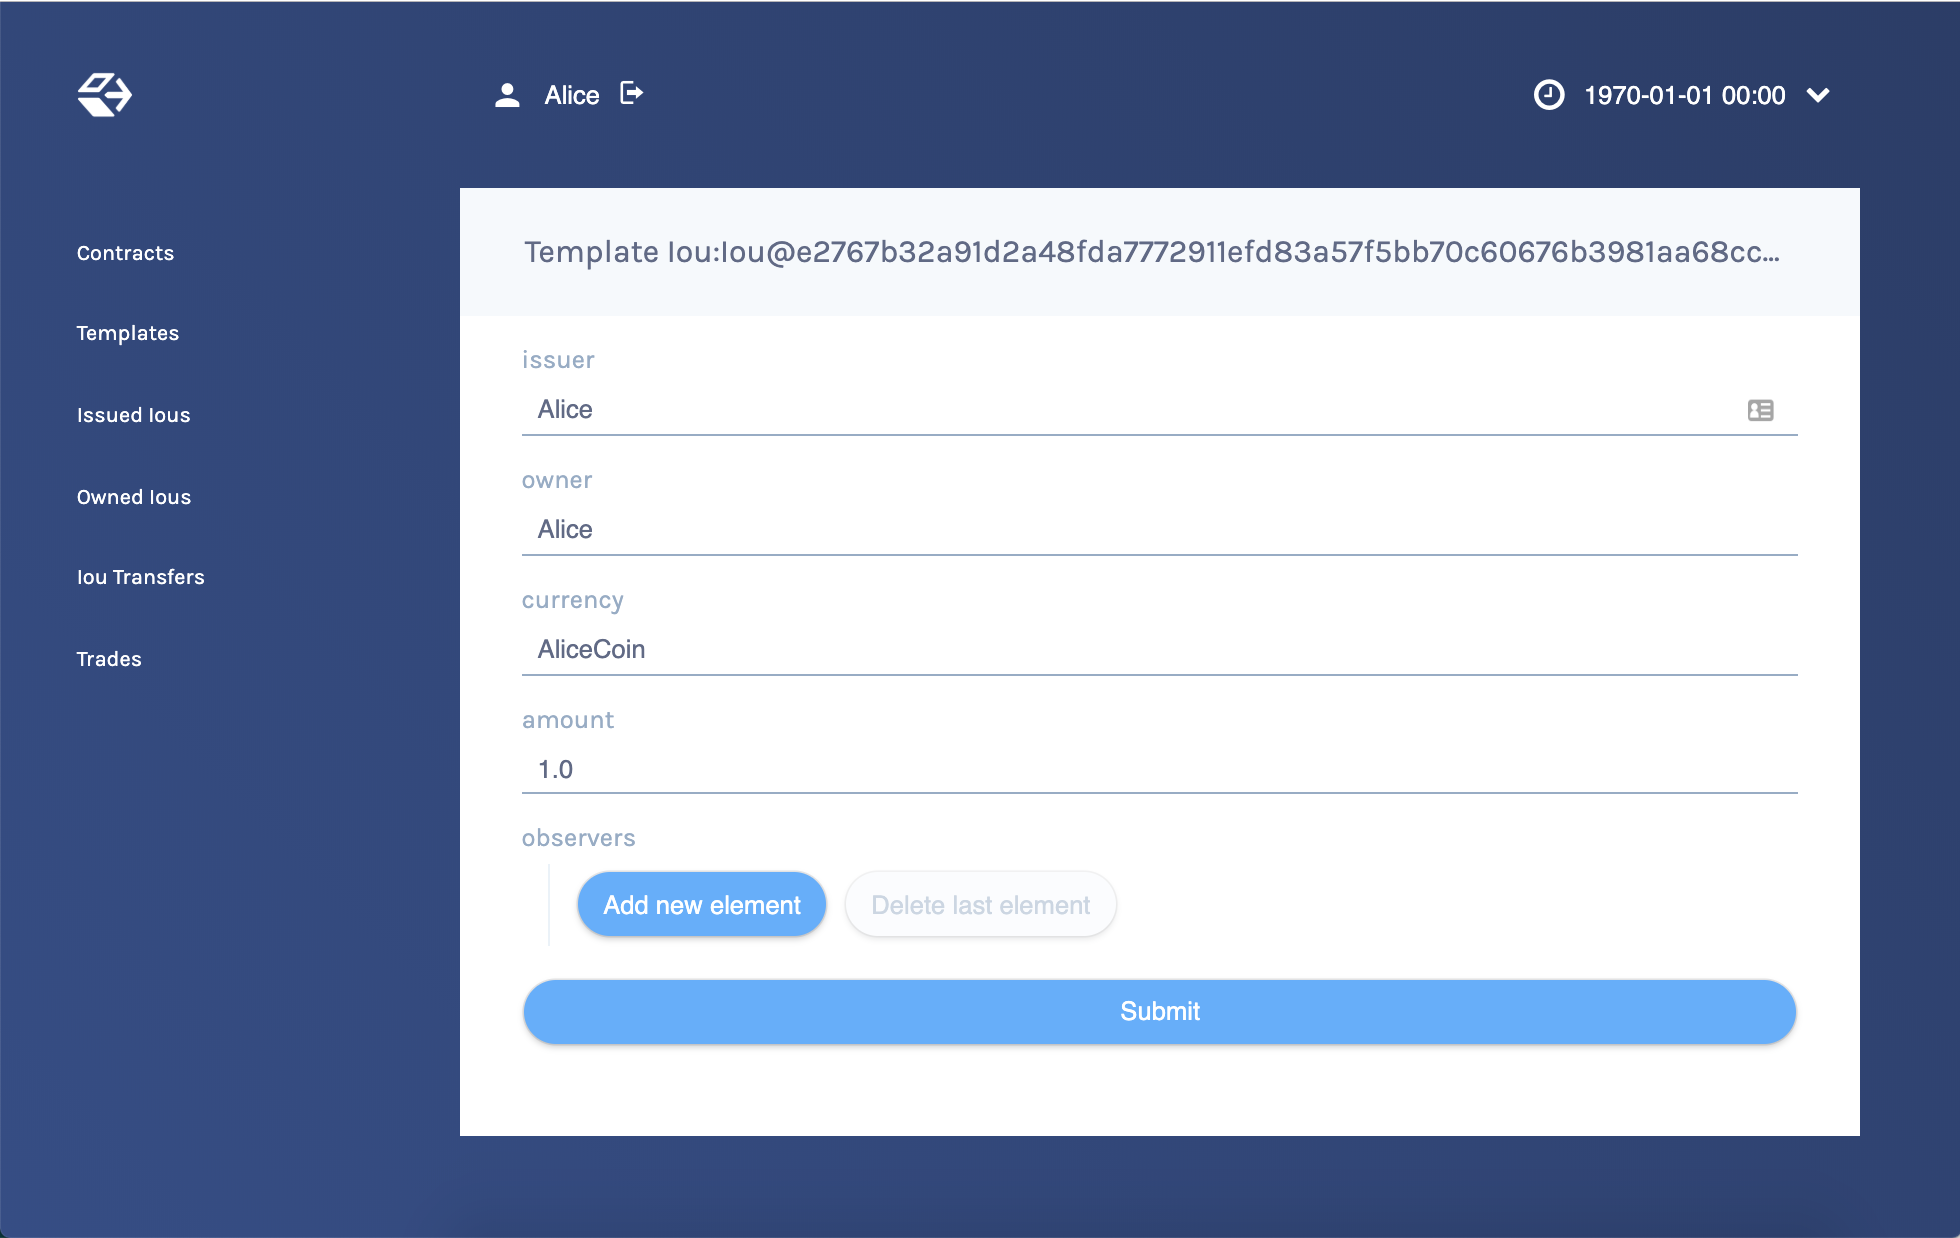
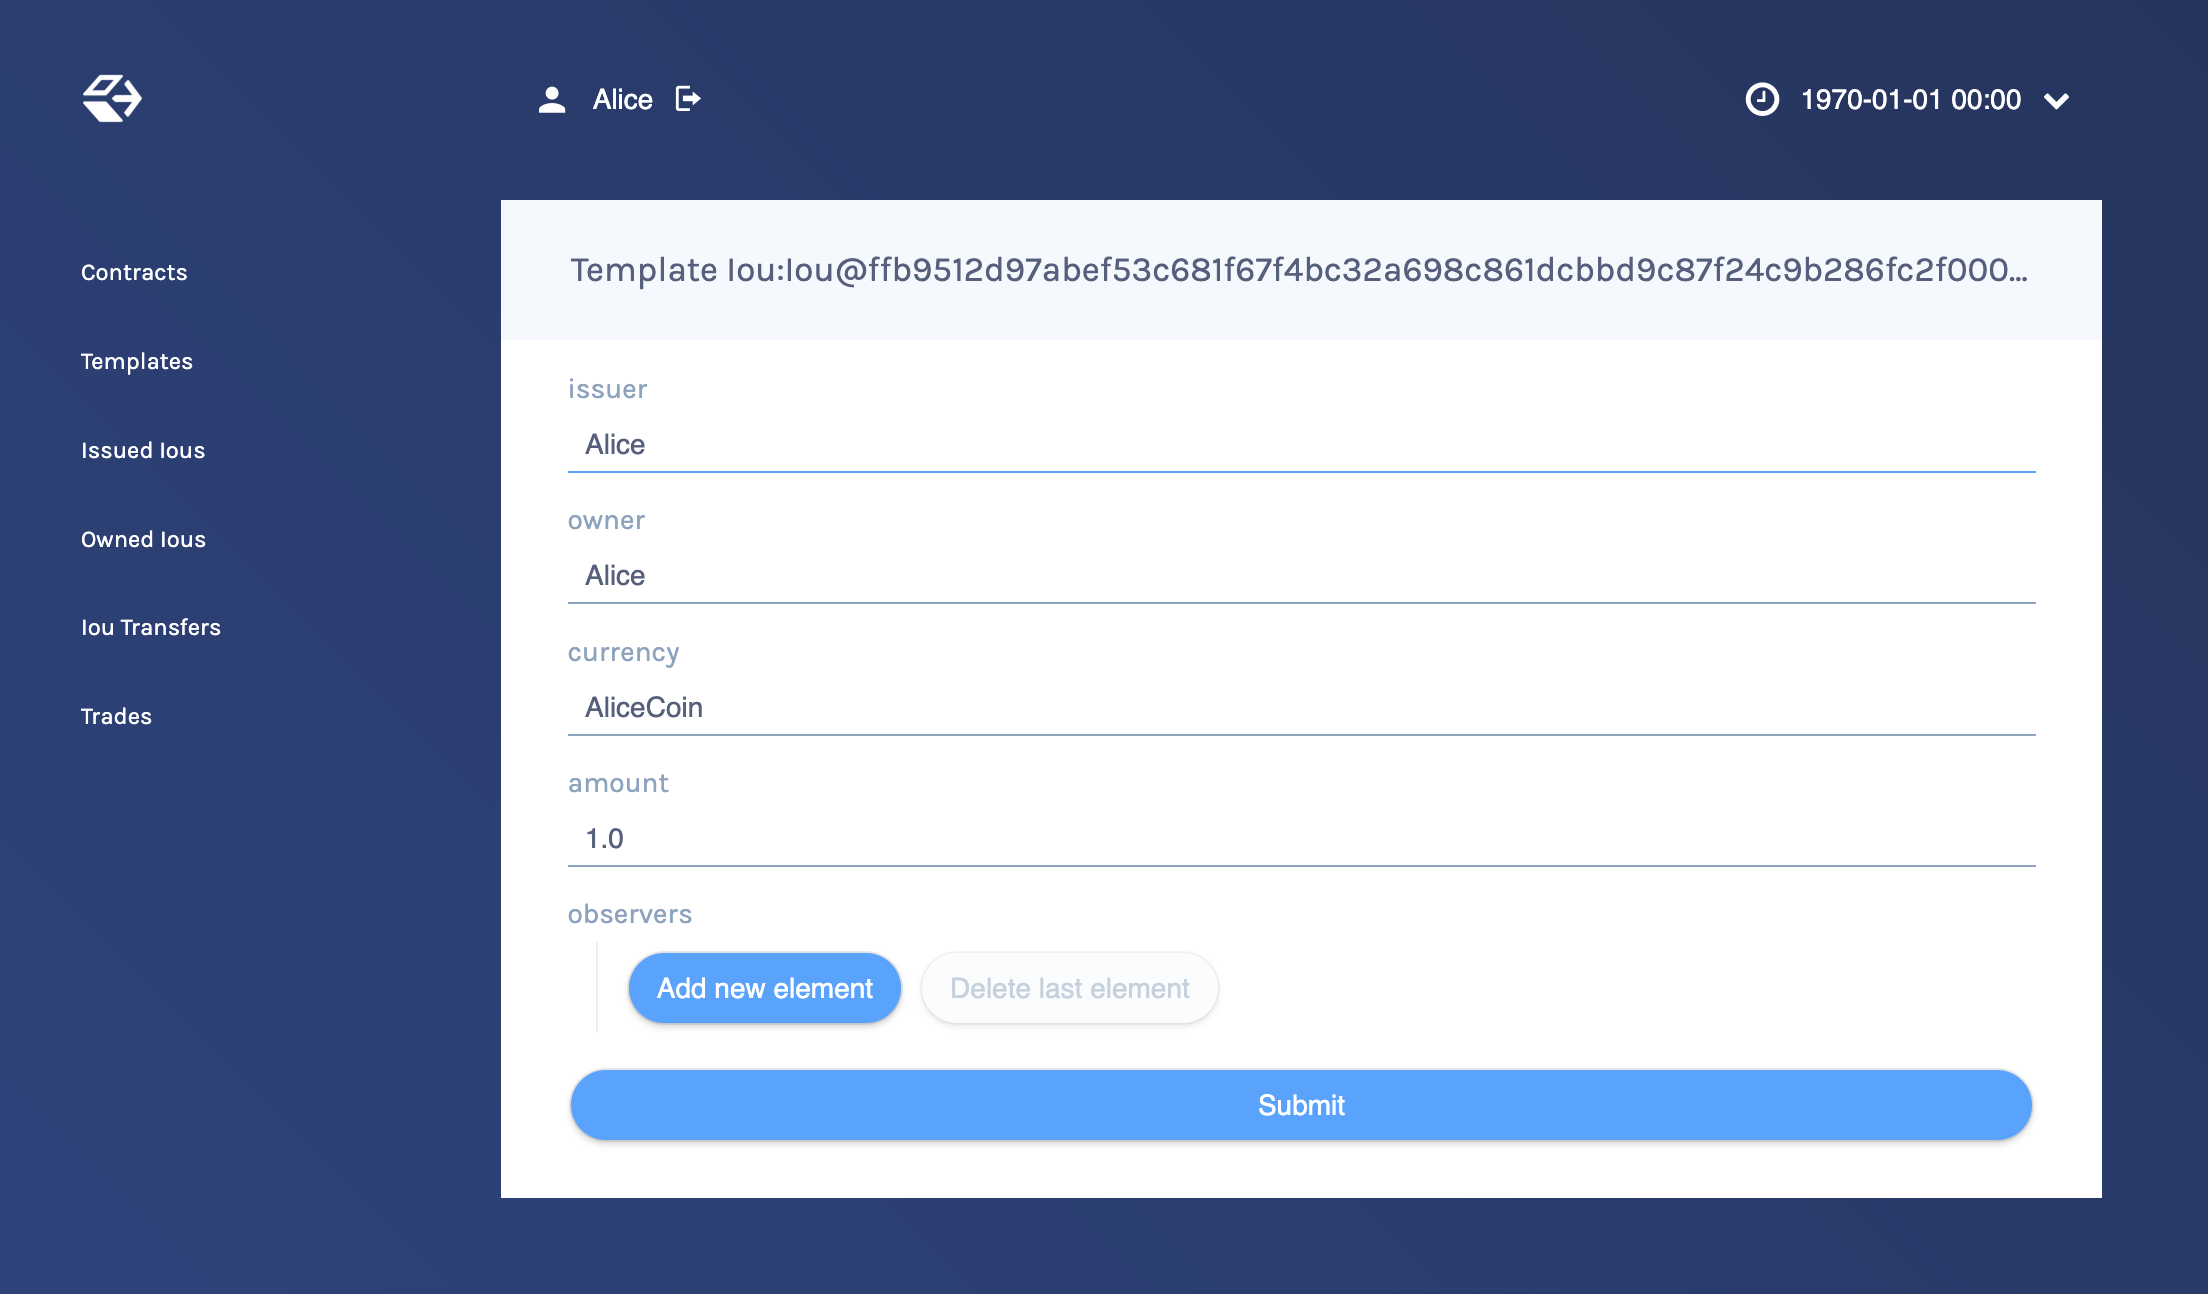
Make DAML code in quickstart-java example cleaner
Also update module hash as well as screenshots in docs

diff --git a/docs/source/getting-started/quickstart.rst b/docs/source/getting-started/quickstart.rst
@@ -169,7 +169,7 @@ Now everything is running, you can try out the quickstart application:
 
    .. figure:: quickstart/images/contracts.png
 
-   This is showing you what contracts are currently active on the sandbox ledger and visible to *Alice*. You can see that there is a single such contract, with Id ``#2:1``, created from a *template* called ``Iou:Iou@28b...``.
+   This is showing you what contracts are currently active on the sandbox ledger and visible to *Alice*. You can see that there is a single such contract, with Id ``#2:1``, created from a *template* called ``Iou:Iou@ffb...``.
 
 #. On the left-hand side, you can see what the pages the Navigator contains:
 
